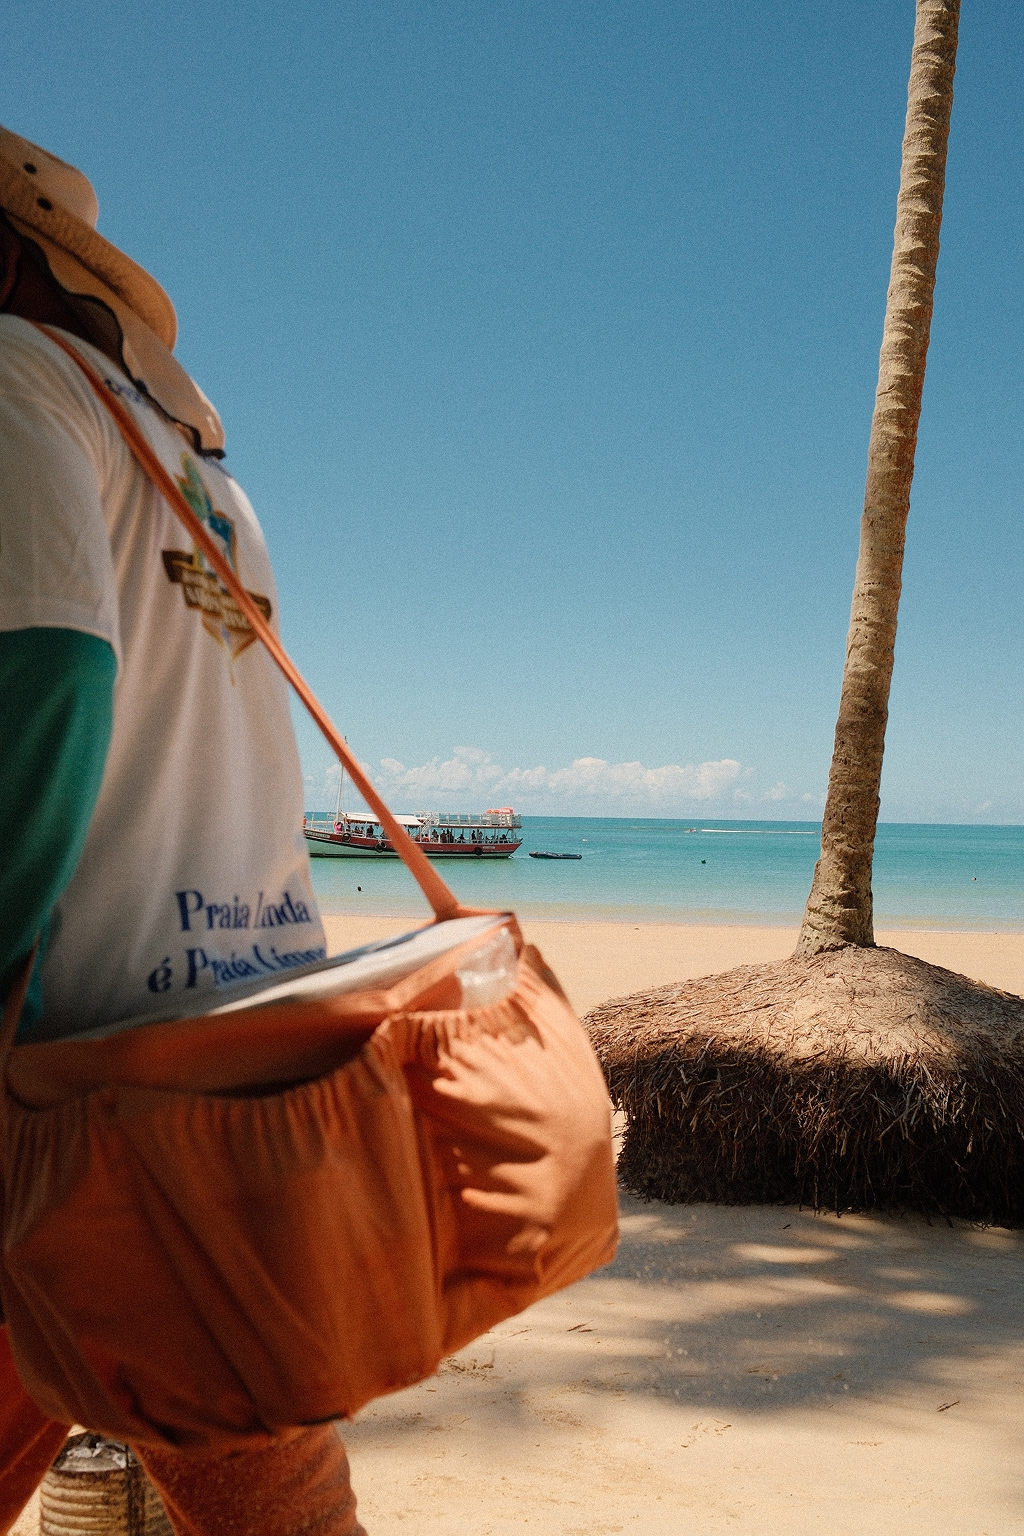
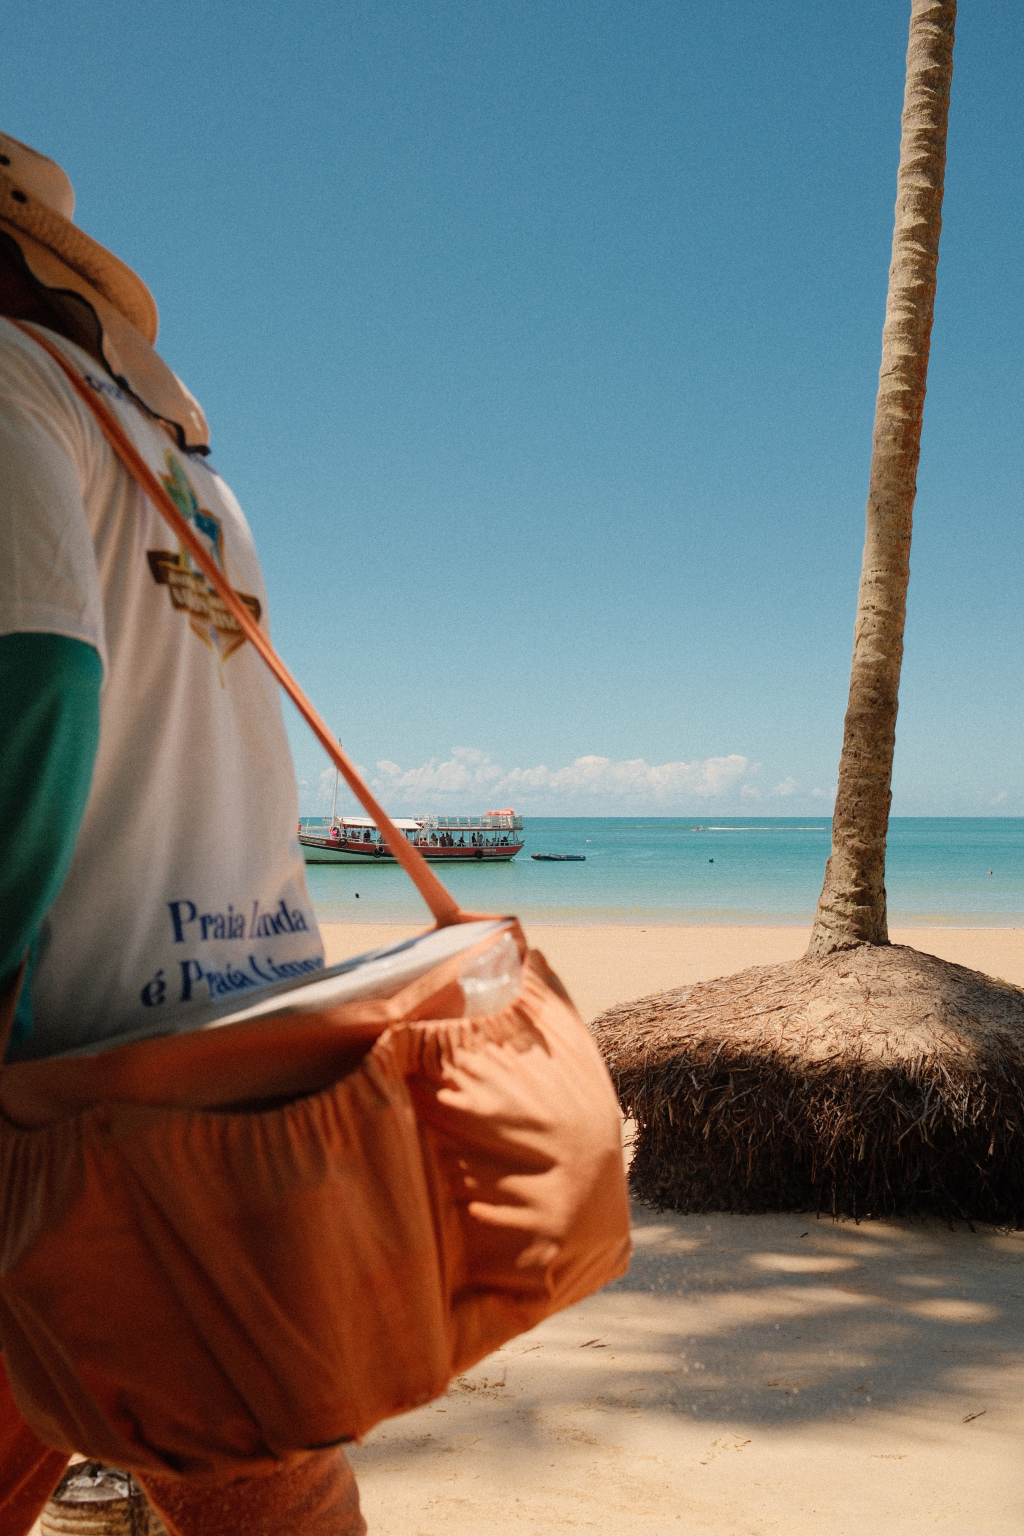
more pictures

Changed region(s): [[0.0, 0.0, 1.0, 1.0], [0.9375, 0.7812, 1.0, 0.8125], [0.1562, 0.7812, 0.1875, 0.8125]]

diff --git a/src/components/cursosr.tsx b/src/components/cursosr.tsx
@@ -1,0 +1,116 @@
+"use client";
+
+import payload from "@/data.json";
+import { cn } from "@/utils/classname";
+import { AnimatePresence, motion, useMotionValue } from "framer-motion";
+import React from "react";
+import { context } from "./context";
+
+const SIZE = 20;
+
+export const Cursor = ({
+  albumSizes,
+  timelineContainerWidth,
+}: { albumSizes: [number, number][]; timelineContainerWidth: number }) => {
+  const cursorRef = React.useRef<HTMLDivElement>(null);
+  const scrollRef = React.useRef<HTMLDivElement>(null);
+  const [overTimeline, setOverTimeline] = React.useState(false);
+  const { overObject, mouseX } = React.useContext(context);
+
+  React.useEffect(() => {
+    const handleMouseMove = (event: MouseEvent) => {
+      if (cursorRef.current) {
+        const threshold = 60;
+        const top = event.clientY - SIZE / 2;
+        const limit = top + threshold > window.innerHeight;
+
+        if (scrollRef.current) {
+          scrollRef.current?.scrollTo({
+            left: event.clientX - 76,
+          });
+        }
+
+        setOverTimeline(limit);
+
+        if (limit) {
+          mouseX.set(event.clientX - 76);
+        } else {
+          mouseX.set(0);
+        }
+
+        cursorRef.current.style.left = `${event.clientX - SIZE / 2}px`;
+        cursorRef.current.style.top = `${limit ? window.innerHeight - 48 : top}px`;
+      }
+    };
+
+    window.addEventListener("mousemove", handleMouseMove);
+
+    return () => window.removeEventListener("mousemove", handleMouseMove);
+  }, []);
+
+  return (
+    <motion.div
+      ref={cursorRef}
+      initial={{ opacity: 0, width: 0, height: 0 }}
+      animate={{
+        width: overTimeline ? 12 : SIZE,
+        height: overTimeline ? SIZE * 2.2 : SIZE,
+        opacity: overObject === "image" ? 0.3 : 1,
+        scale: overObject === "image" ? 1.5 : 1,
+      }}
+      transition={{
+        width: {
+          duration: 0.1,
+          ease: "easeInOut",
+        },
+      }}
+      className={cn(
+        "cursor fixed pointer-events-none z-50 capitalize",
+        // "bg-gray-200/50 border border-gray-300 rounded-full w-full h-full backdrop-blur-sm",
+        {
+          "after:content-[''] after:absolute after:bottom-0 after:right-0 after:translate-x-2 after:translate-y-1 after:w-2 after:h-0.5 after:bg-gray-200/50 after:rotate-45 after:rounded-2xl after:border after:border-gray-300":
+            overObject === "image",
+
+          // "border-white bg-gray-300 border-5": overTimeline,
+        },
+      )}
+    >
+      <AnimatePresence>
+        {overTimeline && (
+          <motion.div
+            initial={{ opacity: 0 }}
+            animate={{
+              opacity: 1,
+              transition: { delay: 0.2, duration: 0.2 },
+            }}
+            exit={{ opacity: 0, transition: { duration: 0.1, delay: 0 } }}
+            className="w-24 h-full relative"
+          >
+            <div
+              id="cursor-scroll"
+              className="overflow-auto w-full [scrollbar-width:none] [&::-webkit-scrollbar]:hidden -top-1.5 relative"
+              ref={scrollRef}
+            >
+              <div
+                className="flex text-nowrap gap-6"
+                style={{ width: timelineContainerWidth }}
+              >
+                {payload.map((item, index) => (
+                  <motion.div
+                    key={item.id}
+                    style={{ flexGrow: albumSizes[index][0] }}
+                    className="h-5 flex-1"
+                  >
+                    <span className="sticky left-2 top-0 text-sm leading-0 text-gray-900/90">
+                      {item.name.replace("Memories", "").trim()}
+                    </span>
+                  </motion.div>
+                ))}
+              </div>
+            </div>
+          </motion.div>
+        )}
+      </AnimatePresence>
+    </motion.div>
+  );
+};

diff --git a/src/app/page.tsx b/src/app/page.tsx
@@ -55,7 +55,7 @@ const Album = ({
       )}
     >
       <div
-        className="item min-h-[6em] min-w-[calc(100vh*1.4)] md:min-h-screen flex relative"
+        className="item min-h-[6em] min-w-[calc(100vh*1.4)] md:min-h-screen flex relative overflow-hidden"
         style={
           {
             "--color": `var(--color-${id})`,
